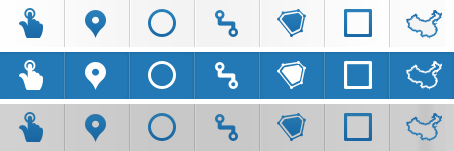
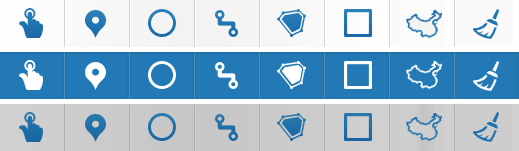
增加清空功能

diff --git a/css/ElectronicFence.css b/css/ElectronicFence.css
@@ -115,6 +115,20 @@
     background-position: -390px -104px;
 }
 
+/*清空按钮*/
+.BMapLib_Drawing .BMapLib_cleanbtn {
+    background-position: -454px 0;
+}
+
+.BMapLib_Drawing .BMapLib_cleanbtn_hover {
+    background-position: -454px -52px;
+}
+
+.BMapLib_Drawing .BMapLib_cleanbtn_disabled {
+    background-position: -454px -104px;
+}
+
+
 /*组合按钮*/
 .groupItem-box {
     box-shadow:1px 1px 3px rgba(0,0,0,0.3);
